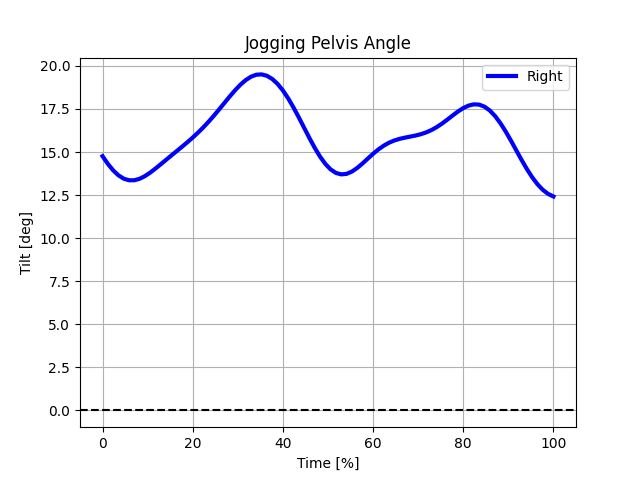
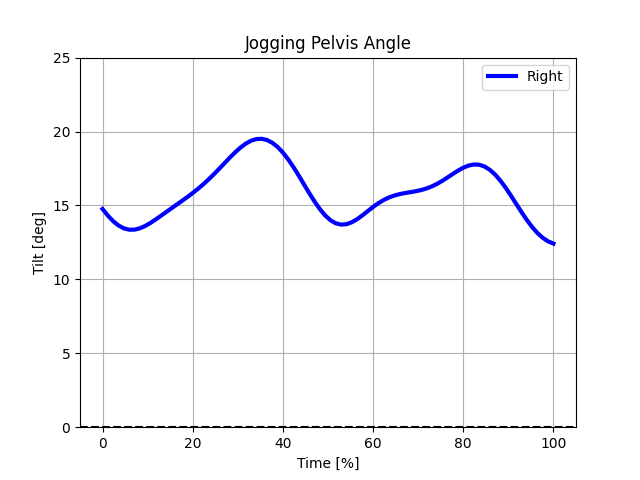
Finished graphs

diff --git a/src/FInalPythonProject1.py b/src/FInalPythonProject1.py
@@ -9,7 +9,7 @@ name_motion = ['Walking', 'Jogging', 'Crouch']
 name_grf = ['Walking_FP', 'Jogging_FP', 'Crouch_FP']
 
 # Set the motion index
-index = 0 # Example: index=0 for Walking, index=1 for Jogging, index=2 for Crouch
+index = 1 # Example: index=0 for Walking, index=1 for Jogging, index=2 for Crouch
 
 # Read data
 data_trc = pd.read_csv(f"../Proj1files/{name_motion[index]}.csv")
@@ -162,8 +162,11 @@ cross_product_ankle_R = shank_R[:, 0] * foot_R[:, 1] - shank_R[:, 1] * foot_R[:,
 ankle_angle_R_radians_sign = ankle_angle_R_radians * np.sign(cross_product_ankle_R) + np.radians(10 - 90)
 ankle_angle_R_degrees = np.degrees(ankle_angle_R_radians_sign)
 
-# Function for plotting angles
-def plot_joint_angles(time, left_angle, right_angle, title, ylabel):
+import numpy as np
+import matplotlib.pyplot as plt
+
+# Function for plotting angles with manually set y-axis limits
+def plot_joint_angles(time, left_angle, right_angle, title, ylabel, ylim):
     plt.figure()
     plt.plot(time, left_angle, 'r', linewidth=3, label='Left')
     plt.plot(time, right_angle, 'b', linewidth=3, label='Right')
@@ -173,10 +176,11 @@ def plot_joint_angles(time, left_angle, right_angle, title, ylabel):
     plt.title(title)
     plt.legend()
     plt.grid(True)
+    plt.ylim(ylim)  # Set y-axis limits
     plt.savefig("../plots/JointAngles/"+title+".png")
-    # Function for plotting angles
 
-def plot_jog_joint_angles(time,right_angle, title, ylabel):
+# Function for plotting jogging angles with manually set y-axis limits
+def plot_jog_joint_angles(time, right_angle, title, ylabel, ylim):
     plt.figure()
     plt.plot(time, right_angle, 'b', linewidth=3, label='Right')
     plt.xlabel('Time [%]')
@@ -185,26 +189,40 @@ def plot_jog_joint_angles(time,right_angle, title, ylabel):
     plt.title(title)
     plt.legend()
     plt.grid(True)
+    plt.ylim(ylim)  # Set y-axis limits
     plt.savefig("../plots/JoggingJointAngles/"+title+".png")
 
-# Generate normalized time scale for plots
+# Define y-axis limits for each joint
+joint_ylim = {
+    'Walking Trunk Angle': (0, 15),
+    'Walking Pelvis Angle': (0, 25),
+    'Walking Hip Joint Angle': (-20, 40),
+    'Walking Knee Joint Angle': (-10, 80),
+    'Walking Ankle Joint Angle': (-30, 20),
+    'Jogging Trunk Angle': (0, 15),
+    'Jogging Pelvis Angle': (0, 25),
+    'Jogging Hip Joint Angle': (-20, 40),
+    'Jogging Knee Joint Angle': (-10, 80),
+    'Jogging Ankle Joint Angle': (-30, 20)
+}
 
-if (index ==0):
+# Generate normalized time scale for plots
+if index == 0:
     # Plot each joint's angles walking
     time = np.linspace(0, 100, len(right_trunk_angle_degrees[44:153]))
-    plot_joint_angles(time, left_trunk_angle_degrees[95:204], right_trunk_angle_degrees[44:153], 'Walking Trunk Angle', 'Tilt [deg]')
-    plot_joint_angles(time, left_pelvis_angle_degrees[95:204], right_pelvis_angle_degrees[44:153], 'Walking Pelvis Angle', 'Tilt [deg]')
-    plot_joint_angles(time, hip_angle_L_degrees[95:204], hip_angle_R_degrees[44:153], 'Walking Hip Joint Angle', '(-)Extension / (+)Flexion [deg]')
-    plot_joint_angles(time, knee_angle_L_degrees[95:204], knee_angle_R_degrees[44:153], 'Walking Knee Joint Angle', '(-)Extension / (+)Flexion [deg]')
-    plot_joint_angles(time, ankle_angle_L_degrees[95:204], ankle_angle_R_degrees[44:153], 'Walking Ankle Joint Angle', '(-)Plantar / (+)Dorsiflexion [deg]')
+    plot_joint_angles(time, left_trunk_angle_degrees[95:204], right_trunk_angle_degrees[44:153], 'Walking Trunk Angle', 'Tilt [deg]', joint_ylim['Walking Trunk Angle'])
+    plot_joint_angles(time, left_pelvis_angle_degrees[95:204], right_pelvis_angle_degrees[44:153], 'Walking Pelvis Angle', 'Tilt [deg]', joint_ylim['Walking Pelvis Angle'])
+    plot_joint_angles(time, hip_angle_L_degrees[95:204], hip_angle_R_degrees[44:153], 'Walking Hip Joint Angle', '(-)Extension / (+)Flexion [deg]', joint_ylim['Walking Hip Joint Angle'])
+    plot_joint_angles(time, knee_angle_L_degrees[95:204], knee_angle_R_degrees[44:153], 'Walking Knee Joint Angle', '(-)Extension / (+)Flexion [deg]', joint_ylim['Walking Knee Joint Angle'])
+    plot_joint_angles(time, ankle_angle_L_degrees[95:204], ankle_angle_R_degrees[44:153], 'Walking Ankle Joint Angle', '(-)Plantar / (+)Dorsiflexion [deg]', joint_ylim['Walking Ankle Joint Angle'])
 else:
     # Plot each joint's angles jogging
     time = np.linspace(0, 100, len(right_trunk_angle_degrees[39:125]))
-    plot_jog_joint_angles(time, right_trunk_angle_degrees[39:125], 'Jogging Trunk Angle', 'Tilt [deg]')
-    plot_jog_joint_angles(time, right_pelvis_angle_degrees[39:125], 'Jogging Pelvis Angle', 'Tilt [deg]')
-    plot_jog_joint_angles(time, hip_angle_R_degrees[39:125], 'Jogging Hip Joint Angle', '(-)Extension / (+)Flexion [deg]')
-    plot_jog_joint_angles(time,  knee_angle_R_degrees[39:125], 'Jogging Knee Joint Angle', '(-)Extension / (+)Flexion [deg]')
-    plot_jog_joint_angles(time, ankle_angle_R_degrees[39:125], 'Jogging Ankle Joint Angle', '(-)Plantar / (+)Dorsiflexion [deg]')
+    plot_jog_joint_angles(time, right_trunk_angle_degrees[39:125], 'Jogging Trunk Angle', 'Tilt [deg]', joint_ylim['Jogging Trunk Angle'])
+    plot_jog_joint_angles(time, right_pelvis_angle_degrees[39:125], 'Jogging Pelvis Angle', 'Tilt [deg]', joint_ylim['Jogging Pelvis Angle'])
+    plot_jog_joint_angles(time, hip_angle_R_degrees[39:125], 'Jogging Hip Joint Angle', '(-)Extension / (+)Flexion [deg]', joint_ylim['Jogging Hip Joint Angle'])
+    plot_jog_joint_angles(time, knee_angle_R_degrees[39:125], 'Jogging Knee Joint Angle', '(-)Extension / (+)Flexion [deg]', joint_ylim['Jogging Knee Joint Angle'])
+    plot_jog_joint_angles(time, ankle_angle_R_degrees[39:125], 'Jogging Ankle Joint Angle', '(-)Plantar / (+)Dorsiflexion [deg]', joint_ylim['Jogging Ankle Joint Angle'])
 
 # Constants
 body_weight = 72.8
@@ -426,7 +444,8 @@ for i in range(numFramesR):
     
     Result_R[:, i] = np.linalg.solve(M_current_R, coef_current_R)
 
-def plot_joint_moments_and_powers(normalized_time, dataL,dataR, ylabel, title):
+# Function for plotting joint moments and powers with manually set y-axis limits
+def plot_joint_moments(normalized_time, dataL, dataR, ylabel, title, ylim):
     plt.figure()
     plt.plot(normalized_time, dataL, 'r', linewidth=3, label='Left')
     plt.plot(normalized_time, dataR, 'b', linewidth=3, label='Right')
@@ -436,9 +455,26 @@ def plot_joint_moments_and_powers(normalized_time, dataL,dataR, ylabel, title):
     plt.title(title)
     plt.legend()
     plt.grid(True)
-    plt.savefig("../plots/MomentsAndPowers/"+title+".png")
+    plt.ylim(ylim)  # Set y-axis limits
+    plt.savefig("../plots/Moments/"+title+".png")
+    # Function for plotting joint moments and powers with manually set y-axis limits
 
-def plot_jog_joint_moments_and_powers(normalized_time,dataR, ylabel, title):
+def plot_joint_powers(normalized_time, dataL, dataR, ylabel, title, ylim):
+    plt.figure()
+    plt.plot(normalized_time, dataL, 'r', linewidth=3, label='Left')
+    plt.plot(normalized_time, dataR, 'b', linewidth=3, label='Right')
+    plt.xlabel('Time [%]')
+    plt.ylabel(ylabel)
+    plt.axhline(0, linestyle='--', color='k', linewidth=1.5)
+    plt.title(title)
+    plt.legend()
+    plt.grid(True)
+    plt.ylim(ylim)  # Set y-axis limits
+    plt.savefig("../plots/Powers/"+title+".png")
+
+
+# Function for plotting jogging joint moments and powers with manually set y-axis limits
+def plot_jog_joint_moments(normalized_time, dataR, ylabel, title, ylim):
     plt.figure()
     plt.plot(normalized_time, dataR, 'b', linewidth=3, label='Right')
     plt.xlabel('Time [%]')
@@ -447,7 +483,33 @@ def plot_jog_joint_moments_and_powers(normalized_time,dataR, ylabel, title):
     plt.title(title)
     plt.legend()
     plt.grid(True)
-    plt.savefig("../plots/JogMomentsAndPowers/"+title+".png")
+    plt.ylim(ylim)  # Set y-axis limits
+    plt.savefig("../plots/JogMoments/"+title+".png")
+
+
+# Function for plotting jogging joint moments and powers with manually set y-axis limits
+def plot_jog_joint_powers(normalized_time, dataR, ylabel, title, ylim):
+    plt.figure()
+    plt.plot(normalized_time, dataR, 'b', linewidth=3, label='Right')
+    plt.xlabel('Time [%]')
+    plt.ylabel(ylabel)
+    plt.axhline(0, linestyle='--', color='k', linewidth=1.5)
+    plt.title(title)
+    plt.legend()
+    plt.grid(True)
+    plt.ylim(ylim)  # Set y-axis limits
+    plt.savefig("../plots/JogPowers/"+title+".png")
+
+
+# Define y-axis limits for each joint moment and power
+joint_moment_power_ylim = {
+    'Walking Hip Joint Moment': (-1.5, 1.5),
+    'Walking Knee Joint Moment': (-1.5, 1.5),
+    'Walking Ankle Joint Moment': (-1, 4),
+    'Walking Hip Joint Power': (-5, 5),
+    'Walking Knee Joint Power': (-5, 5),
+    'Walking Ankle Joint Power': (-10, 15)
+}
 
 if (index == 0):
     # Normal walking
@@ -476,20 +538,18 @@ if (index == 0):
     total_ankle_power_L = -(M3_L * ang_vel3_L[95:204]) 
     total_ankle_power_R = -(M3_R * ang_vel3_R[44:153]) 
 
-    # Creating grouped subplots
-    fig, axes = plt.subplots(2, 3, figsize=(18, 12))
 
     # Plot Joint Moments
-    plot_joint_moments_and_powers(normalized_time_L, M1_L, M1_R, '(-)Flexion / (+)Extension [Nm/kg]', 'Walking Hip Joint Moment')
-    plot_joint_moments_and_powers(normalized_time_L, M2_L, M2_R, '(-)Flexion / (+)Extension [Nm/kg]', 'Walking Knee Joint Moment')
-    plot_joint_moments_and_powers( normalized_time_L, M3_L, M3_R, '(-)Dorsi / (+)Plantarflexion [Nm/kg]', 'Walking Ankle Joint Moment')
+    plot_joint_moments(normalized_time_L, M1_L, M1_R, '(-)Flexion / (+)Extension [Nm/kg]', 'Walking Hip Joint Moment', joint_moment_power_ylim['Walking Hip Joint Moment'])
+    plot_joint_moments(normalized_time_L, M2_L, M2_R, '(-)Flexion / (+)Extension [Nm/kg]', 'Walking Knee Joint Moment', joint_moment_power_ylim['Walking Knee Joint Moment'])
+    plot_joint_moments(normalized_time_L, M3_L, M3_R, '(-)Dorsi / (+)Plantarflexion [Nm/kg]', 'Walking Ankle Joint Moment', joint_moment_power_ylim['Walking Ankle Joint Moment'])
 
     # Plot Joint Powers
-    plot_joint_moments_and_powers(normalized_time_L, total_hip_power_L, total_hip_power_R, '(-)Absorption / (+)Generation [W/kg]', 'Walking Hip Joint Power')
-    plot_joint_moments_and_powers(normalized_time_L, total_knee_power_L, total_knee_power_R, '(-)Absorption / (+)Generation [W/kg]', 'Walking Knee Joint Power')
-    plot_joint_moments_and_powers(normalized_time_L, total_ankle_power_L,  total_ankle_power_R, '(-)Absorption / (+)Generation [W/kg]', 'Walking Ankle Joint Power')
+    plot_joint_powers(normalized_time_L, total_hip_power_L, total_hip_power_R, '(-)Absorption / (+)Generation [W/kg]', 'Walking Hip Joint Power', joint_moment_power_ylim['Walking Hip Joint Power'])
+    plot_joint_powers(normalized_time_L, total_knee_power_L, total_knee_power_R, '(-)Absorption / (+)Generation [W/kg]', 'Walking Knee Joint Power', joint_moment_power_ylim['Walking Knee Joint Power'])
+    plot_joint_powers(normalized_time_L, total_ankle_power_L, total_ankle_power_R, '(-)Absorption / (+)Generation [W/kg]', 'Walking Ankle Joint Power', joint_moment_power_ylim['Walking Ankle Joint Power'])
 
-    
+        
 else:
     #Jogging
  # Normal walking
@@ -510,11 +570,11 @@ else:
     fig, axes = plt.subplots(2, 3, figsize=(18, 12))
 
     # Plot Joint Moments
-    plot_jog_joint_moments_and_powers(normalized_time_R,  M1_R, '(-)Flexion / (+)Extension [Nm/kg]', 'Jogging Hip Joint Moment')
-    plot_jog_joint_moments_and_powers(normalized_time_R,M2_R, '(-)Flexion / (+)Extension [Nm/kg]', 'Jogging Knee Joint Moment')
-    plot_jog_joint_moments_and_powers( normalized_time_R, M3_R, '(-)Dorsi / (+)Plantarflexion [Nm/kg]', 'Jogging Ankle Joint Moment')
+    plot_jog_joint_moments(normalized_time_R,  M1_R, '(-)Flexion / (+)Extension [Nm/kg]', 'Jogging Hip Joint Moment',joint_moment_power_ylim['Walking Hip Joint Moment'])
+    plot_jog_joint_moments(normalized_time_R, M2_R, '(-)Flexion / (+)Extension [Nm/kg]', 'Jogging Knee Joint Moment',joint_moment_power_ylim['Walking Knee Joint Moment'])
+    plot_jog_joint_moments( normalized_time_R, M3_R, '(-)Dorsi / (+)Plantarflexion [Nm/kg]', 'Jogging Ankle Joint Moment',joint_moment_power_ylim['Walking Ankle Joint Moment'])
 
     # Plot Joint Powers
-    plot_jog_joint_moments_and_powers(normalized_time_R, total_hip_power_R, '(-)Absorption / (+)Generation [W/kg]', 'Jogging Hip Joint Power')
-    plot_jog_joint_moments_and_powers(normalized_time_R, total_knee_power_R, '(-)Absorption / (+)Generation [W/kg]', 'Jogging Knee Joint Power')
-    plot_jog_joint_moments_and_powers(normalized_time_R, total_ankle_power_R, '(-)Absorption / (+)Generation [W/kg]', 'Jogging Ankle Joint Power')
+    plot_jog_joint_powers(normalized_time_R, total_hip_power_R, '(-)Absorption / (+)Generation [W/kg]', 'Jogging Hip Joint Power',joint_moment_power_ylim['Walking Hip Joint Power'])
+    plot_jog_joint_powers(normalized_time_R, total_knee_power_R, '(-)Absorption / (+)Generation [W/kg]', 'Jogging Knee Joint Power',joint_moment_power_ylim['Walking Knee Joint Power'])
+    plot_jog_joint_powers(normalized_time_R, total_ankle_power_R, '(-)Absorption / (+)Generation [W/kg]', 'Jogging Ankle Joint Power',joint_moment_power_ylim['Walking Ankle Joint Power'])

diff --git a/src/PlotsClearner.py b/src/PlotsClearner.py
@@ -3,7 +3,7 @@ import itertools
 from PIL import Image
 
 
-def MergePics(source_dir, target_dir,output_dir):
+def MergePics(source_dir, target_dir, output_dir):
     # Ensure output directory exists
     os.makedirs(output_dir, exist_ok=True)
 
@@ -34,7 +34,7 @@ def MergePics(source_dir, target_dir,output_dir):
         if joint:
             target_files_by_joint[joint] = os.path.join(target_dir, file)
 
-    # Merge images side by side
+    # Merge images vertically
     for joint, source_path in source_files_by_joint.items():
         if joint in target_files_by_joint:
             target_path = target_files_by_joint[joint]
@@ -43,56 +43,102 @@ def MergePics(source_dir, target_dir,output_dir):
             img1 = Image.open(target_path)
             img2 = Image.open(source_path)
             
-            # Ensure the images have the same height
-            height = max(img1.height, img2.height)
-            img1 = img1.resize((img1.width, height))
-            img2 = img2.resize((img2.width, height))
+            # Ensure the images have the same width
+            width = max(img1.width, img2.width)
+            img1 = img1.resize((width, img1.height))
+            img2 = img2.resize((width, img2.height))
             
-            # Create a new image with combined width
-            merged_img = Image.new('RGB', (img1.width + img2.width, height))
+            # Create a new image with combined height
+            merged_img = Image.new('RGB', (width, img1.height + img2.height))
             
-            # Paste images side by side
+            # Paste images on top of each other
             merged_img.paste(img1, (0, 0))
-            merged_img.paste(img2, (img1.width, 0))
+            merged_img.paste(img2, (0, img1.height))
             
             # Save the merged image
             output_path = os.path.join(output_dir, f"Merged_{joint}.png")
             merged_img.save(output_path)
             print(f"Saved merged image: {output_path}")
 
-
-def merge_images_vertically(source_dir, target_dir, output_dir):
-    """Merge images vertically if they exist in both source and target directories."""
+def merge_3images_vertically(source_dir, target_dir, third_dir, output_dir):
+    """Merge images vertically if they exist in all three directories."""
     # Ensure output directory exists
     os.makedirs(output_dir, exist_ok=True)
     
     # Get list of PNG files in source directory
     source_files = {f for f in os.listdir(source_dir) if f.endswith(".png")}
     target_files = {f for f in os.listdir(target_dir) if f.endswith(".png")}
+    third_files = {f for f in os.listdir(third_dir) if f.endswith(".png")}
     
     # Find common files
-    common_files = source_files.intersection(target_files)
+    common_files = source_files.intersection(target_files, third_files)
     
     for file_name in common_files:
         source_path = os.path.join(source_dir, file_name)
         target_path = os.path.join(target_dir, file_name)
+        third_path = os.path.join(third_dir, file_name)
         output_path = os.path.join(output_dir, file_name)
         
         # Open images
         img1 = Image.open(source_path)
         img2 = Image.open(target_path)
+        img3 = Image.open(third_path)
         
         # Ensure the images have the same width
-        width = max(img1.width, img2.width)
+        width = max(img1.width, img2.width, img3.width)
         img1 = img1.resize((width, img1.height))
         img2 = img2.resize((width, img2.height))
+        img3 = img3.resize((width, img3.height))
         
         # Create a new image with combined height
-        merged_img = Image.new('RGB', (width, img1.height + img2.height))
+        merged_img = Image.new('RGB', (width, img1.height + img2.height + img3.height))
         
         # Paste images on top of each other
-        merged_img.paste(img2, (0, 0))
-        merged_img.paste(img1, (0, img2.height))
+        merged_img.paste(img3, (0, 0))
+        merged_img.paste(img2, (0, img3.height))
+        merged_img.paste(img1, (0, img3.height + img2.height))
+        
+        # Save the merged image
+        merged_img.save(output_path)
+        print(f"Merged {file_name} and saved to {output_path}")
+
+def merge_3images_horizontally(source_dir, target_dir, third_dir, output_dir):
+    """Merge images horizontally if they exist in all three directories."""
+    # Ensure output directory exists
+    os.makedirs(output_dir, exist_ok=True)
+    
+    # Get list of PNG files in source directory
+    source_files = {f for f in os.listdir(source_dir) if f.endswith(".png")}
+    target_files = {f for f in os.listdir(target_dir) if f.endswith(".png")}
+    third_files = {f for f in os.listdir(third_dir) if f.endswith(".png")}
+    
+    # Find common files
+    common_files = source_files.intersection(target_files, third_files)
+    
+    for file_name in common_files:
+        source_path = os.path.join(source_dir, file_name)
+        target_path = os.path.join(target_dir, file_name)
+        third_path = os.path.join(third_dir, file_name)
+        output_path = os.path.join(output_dir, file_name)
+        
+        # Open images
+        img1 = Image.open(source_path)
+        img2 = Image.open(target_path)
+        img3 = Image.open(third_path)
+        
+        # Ensure the images have the same height
+        height = max(img1.height, img2.height, img3.height)
+        img1 = img1.resize((img1.width, height))
+        img2 = img2.resize((img2.width, height))
+        img3 = img3.resize((img3.width, height))
+        
+        # Create a new image with combined width
+        merged_img = Image.new('RGB', (img1.width + img2.width + img3.width, height))
+        
+        # Paste images side by side
+        merged_img.paste(img1, (0, 0))
+        merged_img.paste(img2, (img1.width, 0))
+        merged_img.paste(img3, (img1.width + img2.width, 0))
         
         # Save the merged image
         merged_img.save(output_path)
@@ -102,18 +148,33 @@ def merge_images_vertically(source_dir, target_dir, output_dir):
 source_dir = "../plots/JoggingJointAngles"
 target_dir = "../plots/JointAngles"
 output_dir = "../plots/MergedJointAngles"
+
 MergePics(source_dir, target_dir,output_dir)
 
 # Define paths
-source_dir = "../plots/JogMomentsAndPowers"
-target_dir = "../plots/MomentsAndPowers"
-output_dir = "../plots/MergedMomentsAndPowers"
+source_dir = "../plots/JogMoments"
+target_dir = "../plots/Moments"
+output_dir = "../plots/MergedMoments"
 
 MergePics(source_dir, target_dir,output_dir)
 
-source_dir = "../plots/MergedMomentsAndPowers"
-target_dir = "../plots/MergedJointAngles"
+
+# Define paths
+source_dir = "../plots/JogPowers"
+target_dir = "../plots/Powers"
+output_dir = "../plots/MergedPowers"
+
+MergePics(source_dir, target_dir,output_dir)
+
+
+source_dir = "../plots/MergedPowers"
+target_dir = "../plots/MergedMoments"
+third_dir =  "../plots/MergedJointAngles"
+
+
 output_dir = "../plots/FullyMerged"
 
 
-merge_images_vertically(source_dir, target_dir,output_dir)
+merge_3images_horizontally(third_dir, target_dir,source_dir,output_dir)
+
+
